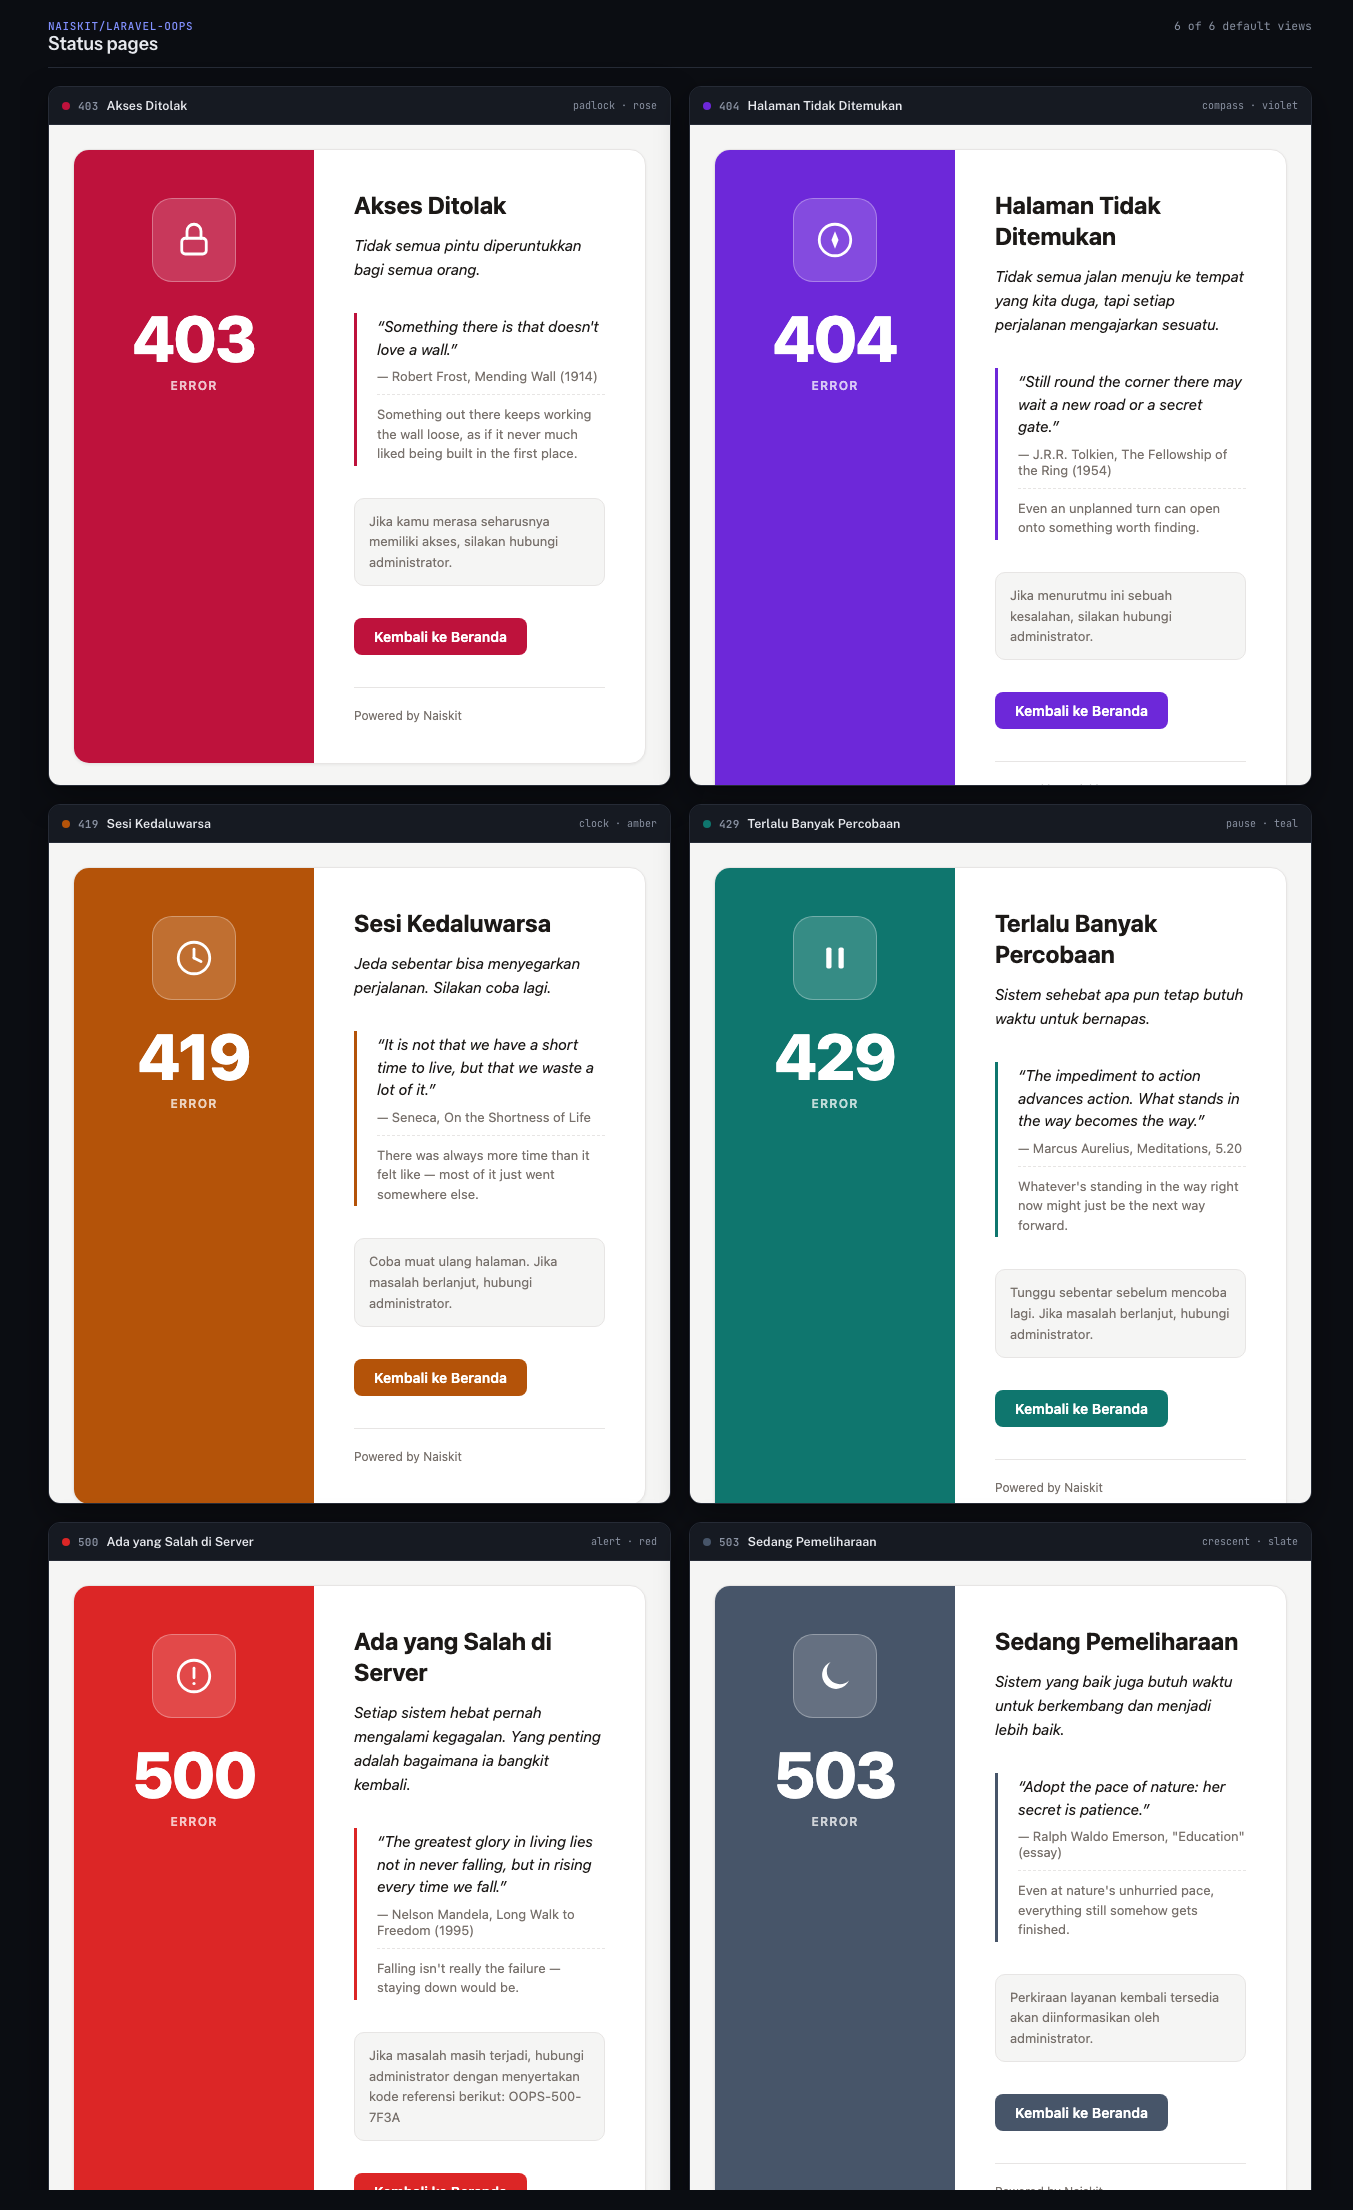
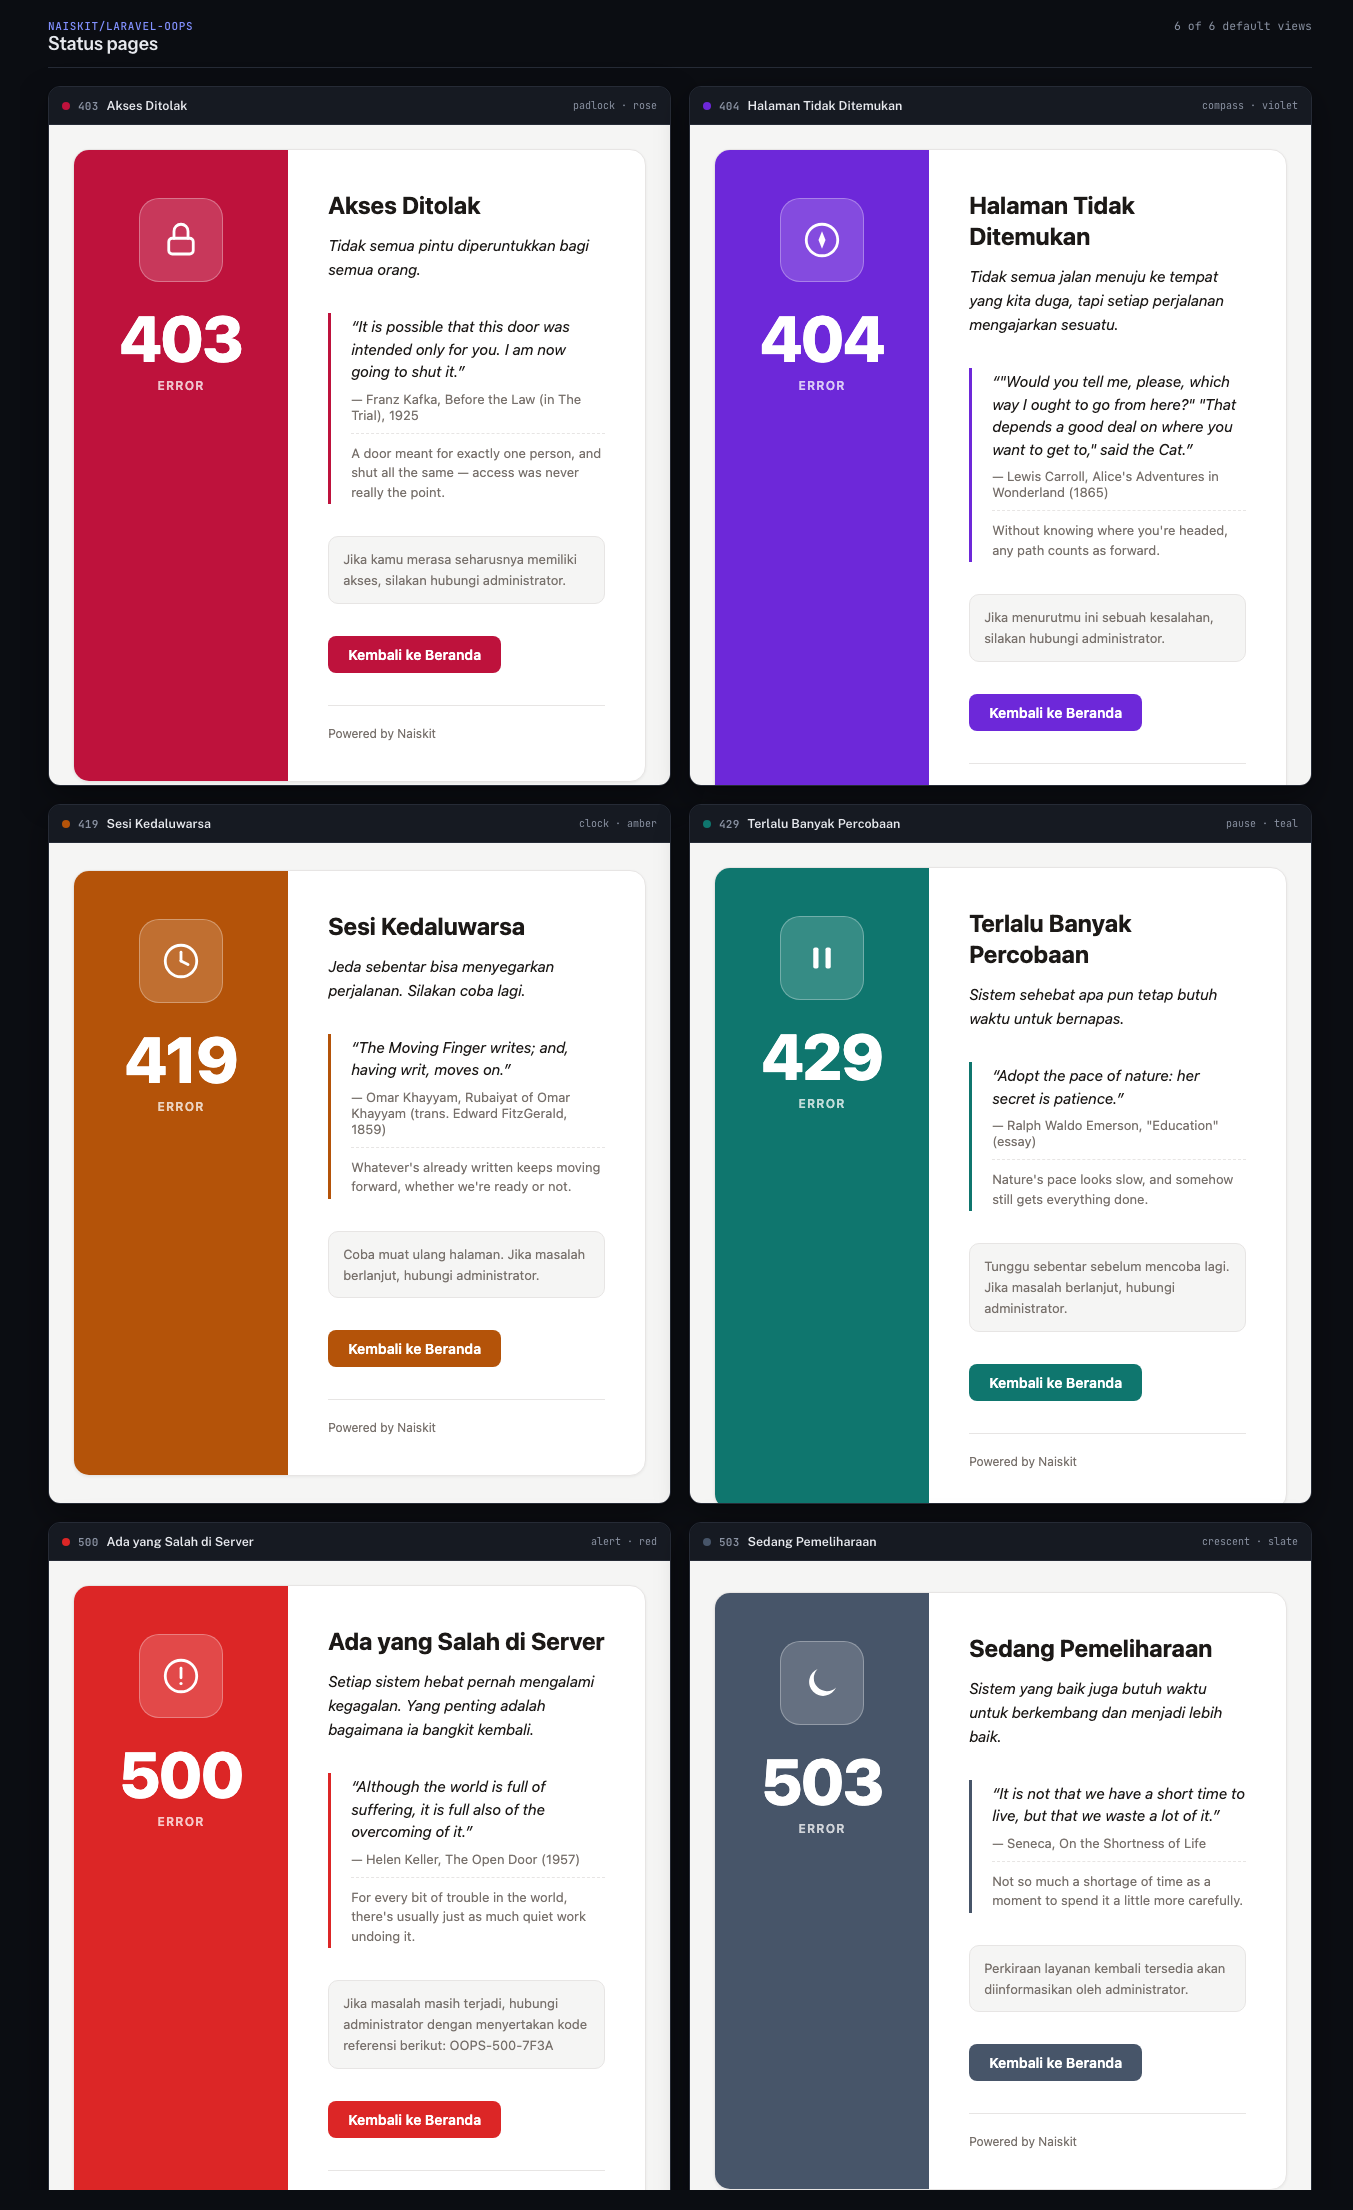
layout: widen the sidebar to a proportional 3:5 grid split

diff --git a/resources/views/layout.blade.php b/resources/views/layout.blade.php
@@ -85,7 +85,7 @@
 
         .grid {
             display: grid;
-            grid-template-columns: 240px 1fr;
+            grid-template-columns: 3fr 5fr;
         }
 
         .side {

diff --git a/CHANGELOG.md b/CHANGELOG.md
@@ -88,8 +88,9 @@ project follows [Semantic Versioning](https://semver.org/).
 - The sidebar is now a solid block filled with the status's own accent
   color (white icon/code/label on top) instead of matching the page
   background — reads as an error page at a glance rather than a neutral
-  info card. Widened from 190px to 240px and the status-code number grew
-  from 40px to 64px to carry the bolder treatment. The fill always uses
+  info card. Widened from a fixed 190px column to a proportional 3fr/5fr
+  grid split (~38% of the card) and the status-code number grew from 40px
+  to 64px to carry the bolder treatment. The fill always uses
   the *light*-mode accent value, even in dark mode, since that color is
   saturated enough to hold white text — the dark-mode accent is a lighter
   tint meant for text/borders on a dark page, not a solid fill.
